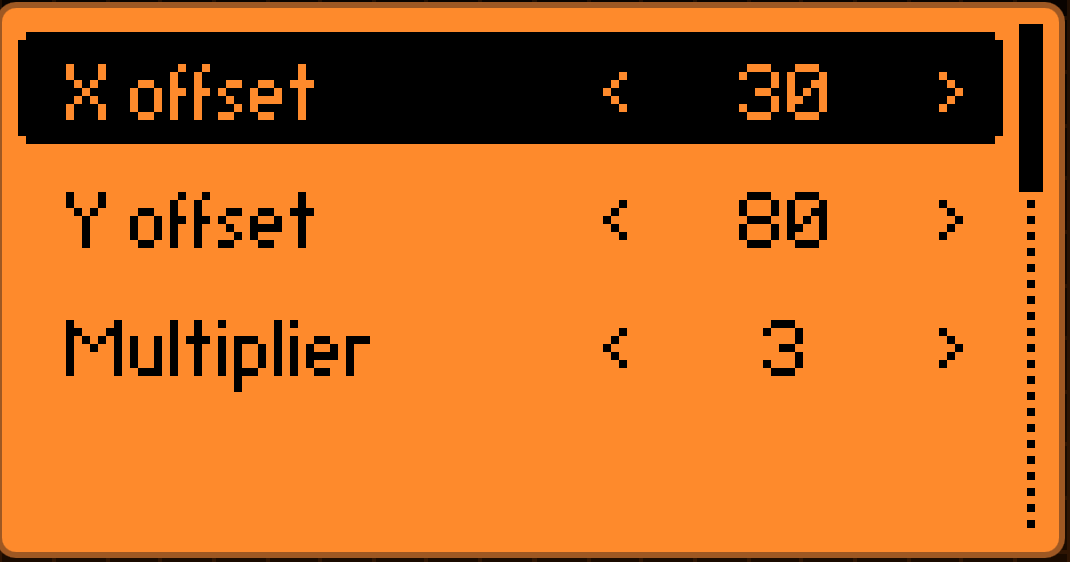
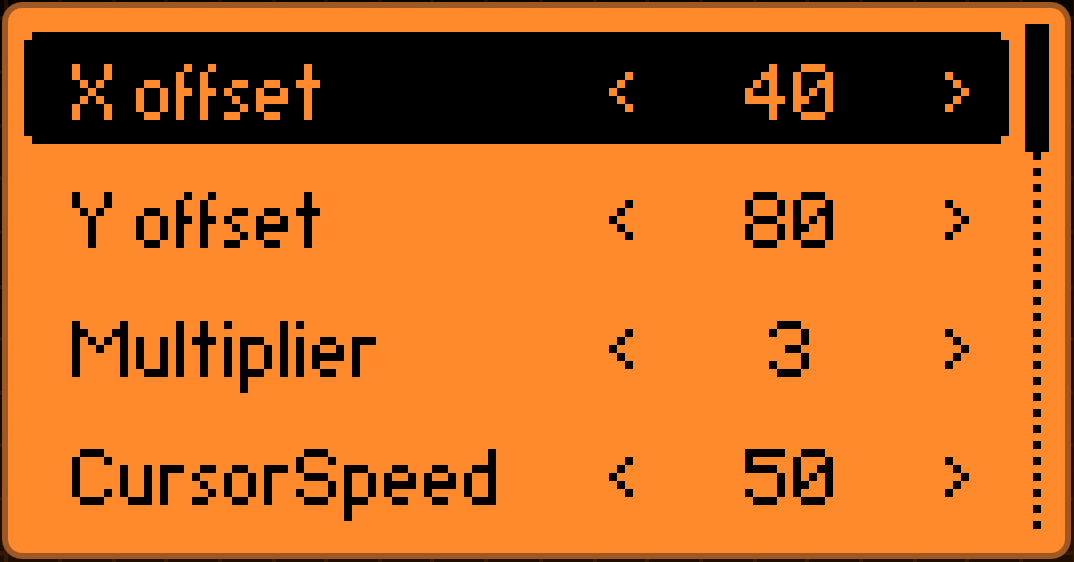
fix initialization. add speed.

diff --git a/hid/hid_cookie/hid.c b/hid/hid_cookie/hid.c
@@ -88,7 +88,11 @@ Hid* hid_alloc() {
 
 void hid_setting_changed(Hid* instance) {
     hid_cc_set_cursor_position(
-        instance->hid_cc, instance->offset_x, instance->offset_y, instance->offset_repeat);
+        instance->hid_cc,
+        instance->offset_x,
+        instance->offset_y,
+        instance->offset_repeat,
+        instance->offset_speed);
 }
 
 void hid_setting_change_x(VariableItem* item) {
@@ -119,6 +123,17 @@ void hid_setting_change_repeat(VariableItem* item) {
     uint8_t index = variable_item_get_current_value_index(item);
     instance->offset_repeat = index + 1;
     furi_string_cat_printf(str, "%d", instance->offset_repeat);
+    variable_item_set_current_value_text(item, furi_string_get_cstr(str));
+    furi_string_free(str);
+    hid_setting_changed(instance);
+}
+
+void hid_setting_change_speed(VariableItem* item) {
+    FuriString* str = furi_string_alloc();
+    Hid* instance = variable_item_get_context(item);
+    uint8_t index = variable_item_get_current_value_index(item);
+    instance->offset_speed = index * 10 + 1;
+    furi_string_cat_printf(str, "%d", instance->offset_speed);
     variable_item_set_current_value_text(item, furi_string_get_cstr(str));
     furi_string_free(str);
     hid_setting_changed(instance);
@@ -168,19 +183,24 @@ Hid* hid_app_alloc_view(void* context) {
     variable_item_list_reset(app->variable_item_list);
     VariableItem* item =
         variable_item_list_add(app->variable_item_list, "X offset", 13, hid_setting_change_x, app);
-    variable_item_set_current_value_index(item, 3); // 0,10,20,30,...
-    variable_item_set_current_value_text(item, "30");
-    app->offset_x = 10;
+    variable_item_set_current_value_index(item, 5); // 0,10,20,30,...
+    variable_item_set_current_value_text(item, "40");
+    app->offset_x = 40;
     item =
         variable_item_list_add(app->variable_item_list, "Y offset", 13, hid_setting_change_y, app);
     variable_item_set_current_value_index(item, 8); // 0,10,20,30,...
     variable_item_set_current_value_text(item, "80");
-    app->offset_y = 100;
+    app->offset_y = 80;
     item = variable_item_list_add(
         app->variable_item_list, "Multiplier", 20, hid_setting_change_repeat, app);
     variable_item_set_current_value_index(item, 2); // 1,2,3,4,...
     variable_item_set_current_value_text(item, "3");
-    app->offset_repeat = 2;
+    app->offset_repeat = 3;
+    item = variable_item_list_add(
+        app->variable_item_list, "CursorSpeed", 50, hid_setting_change_speed, app);
+    variable_item_set_current_value_index(item, 5); // 1,2,3,4,...
+    variable_item_set_current_value_text(item, "50");
+    app->offset_speed = 50;
     view_set_previous_callback(
         variable_item_list_get_view(app->variable_item_list), hid_submenu_view);
     view_dispatcher_add_view(
@@ -192,6 +212,7 @@ Hid* hid_app_alloc_view(void* context) {
     app->hid_cc = hid_cc_alloc(app);
     view_set_previous_callback(hid_cc_get_view(app->hid_cc), hid_submenu_view);
     view_dispatcher_add_view(app->view_dispatcher, BtHidViewClicker, hid_cc_get_view(app->hid_cc));
+    hid_setting_changed(app);
 
     // Credits view
     app->widget_credits = widget_alloc();

diff --git a/hid/hid_cookie/views/hid_cc.c b/hid/hid_cookie/views/hid_cc.c
@@ -20,9 +20,10 @@ typedef struct {
     bool is_cursor_set;
     float timer_duration;
     bool timer_click_enabled;
-    uint8_t click_x;
-    uint8_t click_y;
-    uint8_t click_loop;
+    uint8_t move_x;
+    uint8_t move_y;
+    uint8_t move_loop;
+    uint8_t move_speed;
 } HidCCModel;
 
 static void hid_cc_draw_callback(Canvas* canvas, void* context) {
@@ -111,21 +112,23 @@ static void hid_cc_tick_callback(void* context) {
 }
 
 static void hid_cc_reset_cursor(HidCC* hid_cc) {
-    // Set cursor to the phone's left up corner
-    // Delays to guarantee one packet per connection interval
-    for(size_t i = 0; i < 8; i++) {
-        hid_hal_mouse_move(hid_cc->hid, -127, -127);
-        furi_delay_ms(50);
-    }
-
+    FURI_LOG_I("HID", "Reset cursor!");
     // Move cursor from the corner
     with_view_model(
         hid_cc->view,
         HidCCModel * model,
         {
-            for(size_t i = 0; i < model->click_loop; i++) {
-                hid_hal_mouse_move(hid_cc->hid, model->click_x, model->click_y);
-                furi_delay_ms(50);
+            // Set cursor to the phone's left up corner
+            // Delays to guarantee one packet per connection interval
+            for(size_t i = 0; i < 20; i++) {
+                hid_hal_mouse_move(hid_cc->hid, -127, -127);
+                furi_delay_ms(model->move_speed);
+            }
+
+            FURI_LOG_I("HID", "%d %d", model->move_x, model->move_y);
+            for(size_t i = 0; i < model->move_loop; i++) {
+                hid_hal_mouse_move(hid_cc->hid, model->move_x, model->move_y);
+                furi_delay_ms(model->move_speed);
             }
         },
         true);
@@ -207,15 +210,16 @@ static bool hid_cc_input_callback(InputEvent* event, void* context) {
     return consumed;
 }
 
-void hid_cc_set_cursor_position(HidCC* hid_cc, uint8_t x, uint8_t y, uint8_t repeat) {
+void hid_cc_set_cursor_position(HidCC* hid_cc, uint8_t x, uint8_t y, uint8_t repeat, uint8_t speed) {
     furi_assert(hid_cc);
     with_view_model(
         hid_cc->view,
         HidCCModel * model,
         {
-            model->click_x = x;
-            model->click_y = y;
-            model->click_loop = repeat;
+            model->move_x = x;
+            model->move_y = y;
+            model->move_loop = repeat;
+            model->move_speed = speed;
         },
         true);
 }

diff --git a/hid/hid_cookie/views/hid_cc.h b/hid/hid_cookie/views/hid_cc.h
@@ -13,4 +13,4 @@ View* hid_cc_get_view(HidCC* hid_cc);
 
 void hid_cc_set_connected_status(HidCC* hid_cc, bool connected);
 
-void hid_cc_set_cursor_position(HidCC* hid_cc, uint8_t x, uint8_t y, uint8_t repeat);
+void hid_cc_set_cursor_position(HidCC* hid_cc, uint8_t x, uint8_t y, uint8_t repeat, uint8_t speed);

diff --git a/hid/hid_cookie/hid.h b/hid/hid_cookie/hid.h
@@ -36,6 +36,7 @@ struct Hid {
     HidCC* hid_cc;
     uint32_t view_id;
     uint8_t offset_repeat;
+    uint8_t offset_speed;
     uint8_t offset_x;
     uint8_t offset_y;
 };
